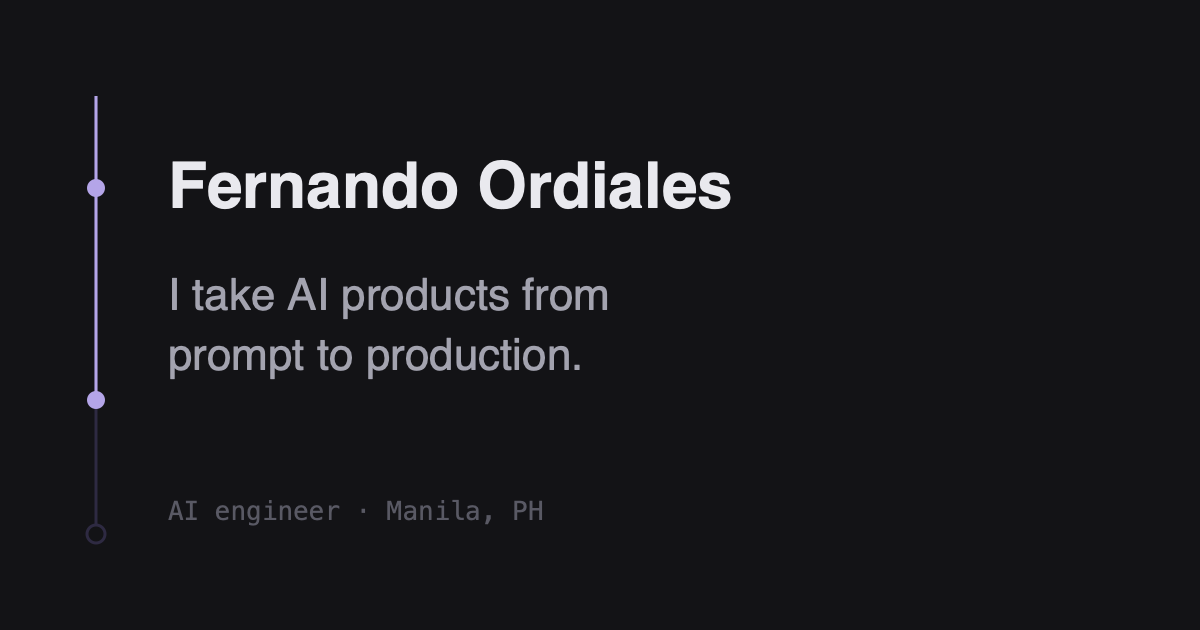
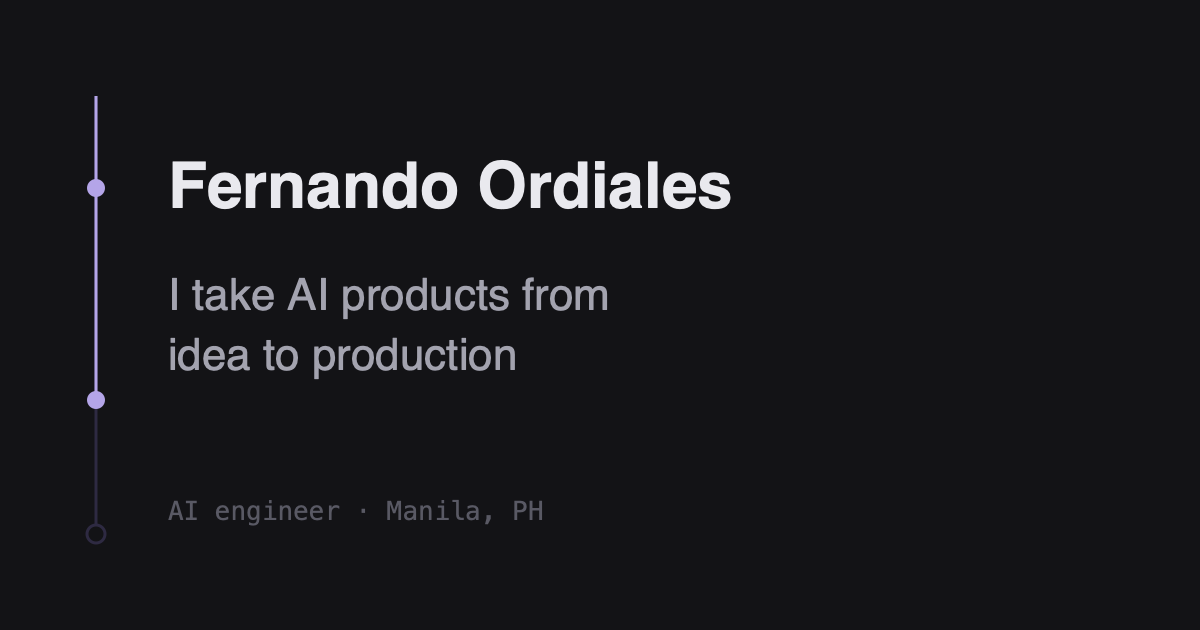
fix(web): contact form sends as no-cors formdata; hero copy finalized
A JSON body hit an unanswerable CORS preflight, flagging delivered mail as failed.

Headline is now 'I take AI products from idea to production' with the new support line.

Changed region(s): [[0.1233, 0.5429, 0.4933, 0.6032]]

diff --git a/apps/web/src/components/EmailButton.tsx b/apps/web/src/components/EmailButton.tsx
@@ -49,20 +49,22 @@ export const EmailButton = ({ size = 'md' }: { size?: 'md' | 'sm' }) => {
   const send = async () => {
     setState('sending');
     try {
-      const response = await fetch(SEND_ENDPOINT, {
+      // FormData keeps this a "simple" request: a JSON body forces a CORS
+      // preflight that FormSubmit answers without CORS headers, which makes
+      // the browser block the send entirely.
+      const form = new FormData();
+      form.set('_subject', subject || 'Portfolio contact');
+      form.set('message', body);
+      form.set('_captcha', 'false');
+      form.set('_template', 'box');
+      // no-cors because FormSubmit's responses carry no CORS headers: the
+      // response is opaque, so a resolved fetch means the relay took the
+      // message and a rejected one means it was unreachable.
+      await fetch(SEND_ENDPOINT, {
         method: 'POST',
-        headers: {
-          'Content-Type': 'application/json',
-          Accept: 'application/json',
-        },
-        body: JSON.stringify({
-          _subject: subject || 'Portfolio contact',
-          message: body,
-          _captcha: 'false',
-          _template: 'box',
-        }),
+        mode: 'no-cors',
+        body: form,
       });
-      if (!response.ok) throw new Error(`relay answered ${response.status}`);
       setState('sent');
       setSubject('');
       setBody('');

diff --git a/apps/web/src/components/EmailButton.test.tsx b/apps/web/src/components/EmailButton.test.tsx
@@ -40,15 +40,18 @@ describe('EmailButton', () => {
     await user.click(screen.getByRole('button', { name: 'Send' }));
 
     await waitFor(() => expect(screen.getByText(/sent/i)).not.toBeNull());
+    // no-cors: FormSubmit omits CORS headers, so the response is opaque —
+    // a resolved fetch means delivered, a rejected one means unreachable.
     expect(fetchMock).toHaveBeenCalledWith(
       SEND_ENDPOINT,
-      expect.objectContaining({ method: 'POST' })
+      expect.objectContaining({ method: 'POST', mode: 'no-cors' })
     );
-    const payload = JSON.parse(
-      (fetchMock.mock.calls[0]?.[1] as { body: string }).body
-    );
-    expect(payload._subject).toBe('Job offer');
-    expect(payload.message).toBe('Hello Fernando');
+    // FormData, not JSON: a JSON body forces a CORS preflight that
+    // FormSubmit answers without CORS headers, so the browser blocks it.
+    const payload = (fetchMock.mock.calls[0]?.[1] as { body: FormData }).body;
+    expect(payload).toBeInstanceOf(FormData);
+    expect(payload.get('_subject')).toBe('Job offer');
+    expect(payload.get('message')).toBe('Hello Fernando');
   });
 
   it('disables Send until there is a message', async () => {

diff --git a/apps/web/src/sections/Hero.test.tsx b/apps/web/src/sections/Hero.test.tsx
@@ -7,8 +7,13 @@ describe('Hero', () => {
     render(<Hero />);
 
     expect(screen.getByRole('heading', { level: 1 }).textContent).toBe(
-      'I take AI products from prompt to production.'
+      'I take AI products from idea to production'
     );
+    expect(
+      screen.getByText(
+        'AI Software Engineer. I build AI-powered products on Google Cloud.'
+      )
+    ).not.toBeNull();
     expect(screen.getByRole('button', { name: 'Email me' })).not.toBeNull();
     const resume = screen.getByRole('link', { name: 'View resume (PDF)' });
     expect(resume.getAttribute('href')).toBe(

diff --git a/apps/web/src/content/profile.ts b/apps/web/src/content/profile.ts
@@ -2,9 +2,8 @@ export const profile = {
   name: 'Fernando Jose Ordiales',
   shortName: 'Fernando Ordiales',
   role: 'AI Engineer',
-  headline: 'I take AI products from prompt to production.',
-  support:
-    'AI engineer at Hytel. Recently: an AI project-management copilot with a 29-tool agent, and the AI layer of a sports app built on Vertex AI.',
+  headline: 'I take AI products from idea to production',
+  support: 'AI Software Engineer. I build AI-powered products on Google Cloud.',
   email: 'fernando.ordiales23@gmail.com',
   location: 'Manila, PH',
   timezone: 'GMT+8',

diff --git a/apps/web/src/App.test.tsx b/apps/web/src/App.test.tsx
@@ -15,7 +15,7 @@ describe('AppRoutes', () => {
   it('renders the hero headline on the homepage', () => {
     renderAt('/');
     expect(screen.getByRole('heading', { level: 1 }).textContent).toBe(
-      'I take AI products from prompt to production.'
+      'I take AI products from idea to production'
     );
   });
 

diff --git a/docs/06-implementation-plan.md b/docs/06-implementation-plan.md
@@ -52,7 +52,13 @@ console errors). Bundle sizes are logged in
   address is already public on the page) straight to Fernando's inbox, with
   a prefilled mailto as the in-dialog fallback when the relay is
   unreachable. Chosen over mailto alone after it dead-ended on machines
-  with no configured mail app.
+  with no configured mail app. Sends as FormData in `no-cors` mode: a JSON
+  body hit a CORS preflight FormSubmit can't answer, and even plain
+  responses carry no CORS headers — the false "Couldn't send" came from the
+  browser blocking the response read on messages that had been delivered.
+- Hero copy finalized: headline "I take AI products from idea to
+  production" (no period), support "AI Software Engineer. I build
+  AI-powered products on Google Cloud." OG image regenerated to match.
 - The theme toggle crossfades through the View Transitions API (CSS
   transition fallback hardened with !important; Three.js palette lerped in
   useFrame) after Fernando's recording showed the nav, body and canvas
@@ -68,12 +74,14 @@ console errors). Bundle sizes are logged in
 
 ## Still open (needs Fernando)
 
-- [ ] Send one test message from the site, then click the activation link
-      FormSubmit emails to fernando.ordiales23@gmail.com (one time; delivery
-      starts after it). FormSubmit was down (HTTP 521) during the build's
-      live check, so also verify a send goes through once it's back; if the
-      service proves flaky, a Web3Forms access key (web3forms.com, free) is
-      a one-line swap in `EmailButton.tsx`.
+- [ ] **Consider swapping the email relay to Web3Forms.** FormSubmit's
+      responses carry no CORS headers, so the form sends in `no-cors` mode
+      and cannot see the relay's answer — and the service returned HTTP 521
+      repeatedly during live checks (2026-10-29 evening), meaning a "Sent"
+      can silently go undelivered while it's down. Web3Forms
+      (web3forms.com, free) has a proper CORS API with readable success:
+      get an access key with your email and it's a one-line endpoint/payload
+      swap in `EmailButton.tsx`. Until then, test the form occasionally.
 - [ ] Confirm the Todo-List repo really is the task-monitoring project; add
       a repo for the sales dashboard and live URLs once deployed (`links` in
       `projects.ts`).

diff --git a/design.md b/design.md
@@ -413,15 +413,10 @@ All states = default / hover / active / focus-visible / disabled.
   (PDF)** (opens the PDF in a new tab), **View work**. A copied email
   confirms with **Copied**.
 - Meta text (dates, stacks, timezone) is mono, lowercase where natural.
-- Hero headline options (one sentence, no highlighted word):
-  1. **"I take AI products from prompt to production."**
-  2. "I build AI products end to end — the model wiring, the interface, and
-     the infrastructure they run on."
-  3. "AI features, the APIs behind them, and the infrastructure underneath —
-     built by one engineer."
-- Supporting line: "AI engineer at Hytel. Recently: an AI project-management
-  copilot with a 29-tool agent, and a Vertex AI layer for a sports app used
-  by athletes." (adjust to taste)
+- Hero headline (final, Fernando's wording 2026-10-29): **"I take AI
+  products from idea to production"** — no trailing period.
+- Supporting line (final, Fernando's wording): "AI Software Engineer. I
+  build AI-powered products on Google Cloud."
 - Availability line (contact + footer): "Available for full-time and
   freelance · Manila, PH · GMT+8" — **TODO: Fernando confirms wording.**
 
